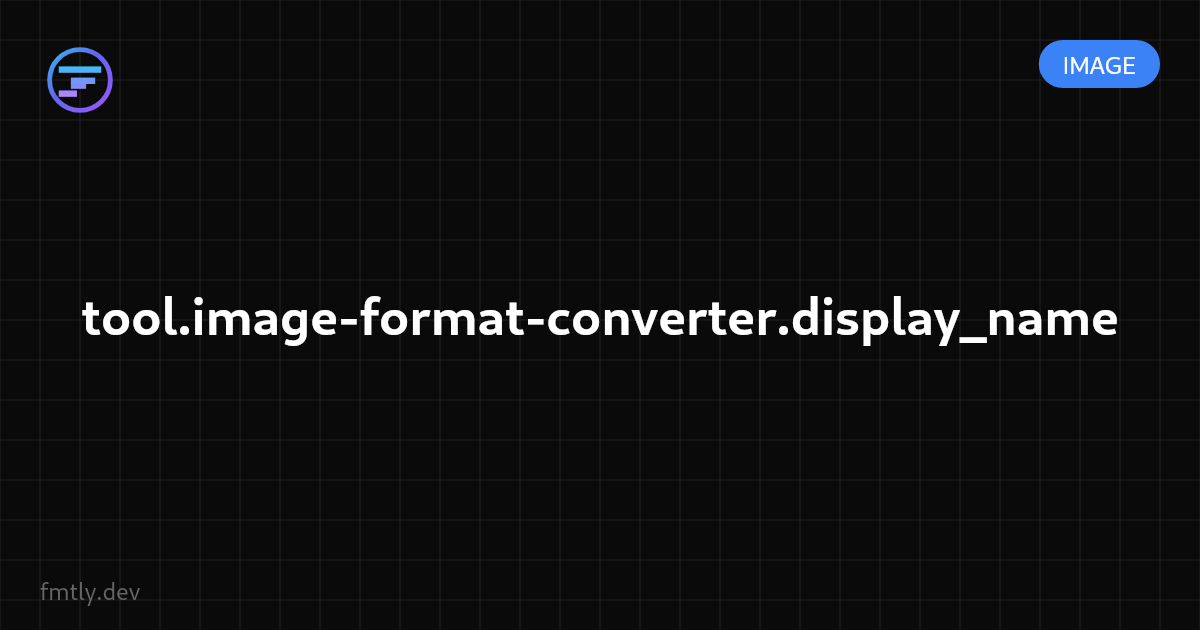
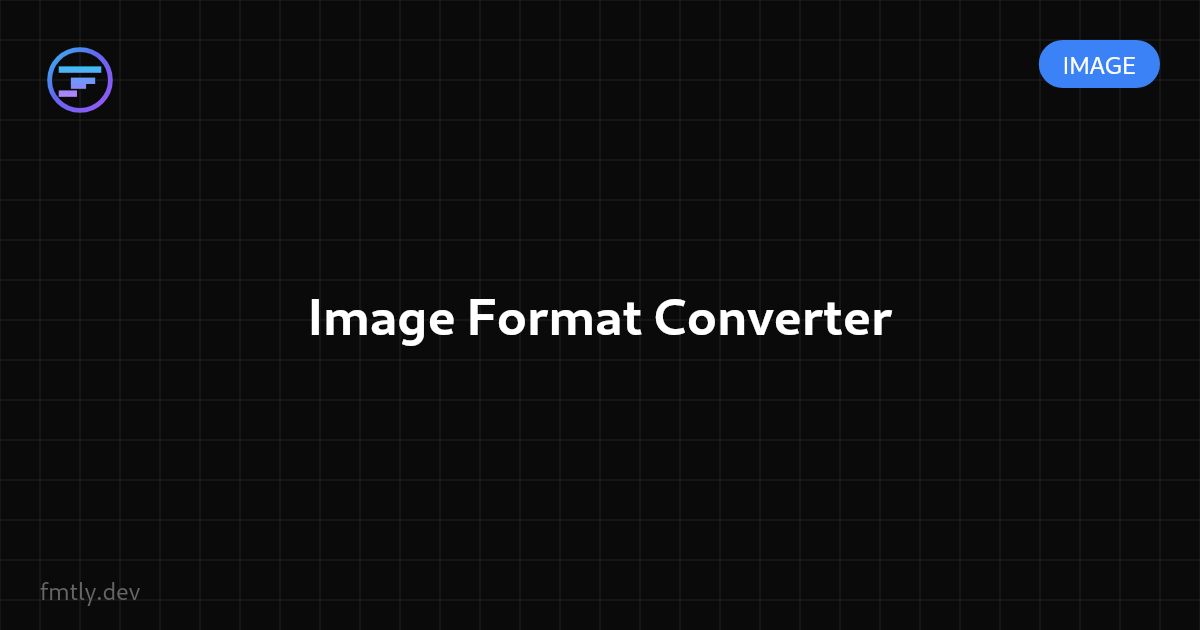
Fix image converter localization keys

Changed region(s): [[0.0617, 0.4524, 0.9558, 0.5429]]

diff --git a/src/lib/i18n/registry/it.ts b/src/lib/i18n/registry/it.ts
@@ -4339,34 +4339,36 @@ const registryIt: Record<string, string> = {
 	'tool.image-resizer.use_case.3':
 		'Convertire output ridimensionato in PNG, JPEG o WebP con controllo qualità',
 
-	'tool.image-converter.display_name': 'Convertitore di Formati Immagine',
-	'tool.image-converter.tagline': 'Converti PNG, JPEG, WebP, AVIF e GIF in modo privato',
-	'tool.image-converter.description':
+	'tool.image-format-converter.display_name': 'Convertitore di Formati Immagine',
+	'tool.image-format-converter.tagline': 'Converti PNG, JPEG, WebP, AVIF e GIF in modo privato',
+	'tool.image-format-converter.description':
 		'Converti immagini tra PNG, JPEG, WebP, AVIF e GIF direttamente nel browser. Visualizza l’anteprima, regola la qualità, appiattisci la trasparenza per JPEG e scarica senza caricare file.',
-	'tool.image-converter.primary_keyword': 'convertitore formati immagine',
-	'tool.image-converter.meta_title':
-		'Convertitore Immagini — PNG, JPG, WebP, AVIF, GIF | fmtly.dev',
-	'tool.image-converter.meta_description':
+	'tool.image-format-converter.primary_keyword': 'convertitore formati immagine',
+	'tool.image-format-converter.meta_title':
+		'Convertitore Immagine — PNG, JPG, WebP, AVIF, GIF | fmtly.dev',
+	'tool.image-format-converter.meta_description':
 		'Converti PNG, JPEG, WebP, AVIF e GIF online nel browser. Privato, veloce, con controlli qualità e Web Worker per file grandi.',
-	'tool.image-converter.operation': 'Converti immagine',
-	'tool.image-converter.faq.0.question': 'Le mie immagini vengono caricate?',
-	'tool.image-converter.faq.0.answer':
+	'tool.image-format-converter.operation': 'Converti immagine',
+	'tool.image-format-converter.faq.0.question': 'Le mie immagini vengono caricate?',
+	'tool.image-format-converter.faq.0.answer':
 		'No. I file vengono decodificati, convertiti, mostrati in anteprima e scaricati localmente nel browser. Nulla viene inviato a un server.',
-	'tool.image-converter.faq.1.question': 'Tra quali formati posso convertire?',
-	'tool.image-converter.faq.1.answer':
+	'tool.image-format-converter.faq.1.question': 'Tra quali formati posso convertire?',
+	'tool.image-format-converter.faq.1.answer':
 		'Puoi importare PNG, JPEG, WebP, AVIF e GIF ed esportare PNG, JPEG, WebP, AVIF o GIF quando il browser supporta il codificatore di destinazione.',
-	'tool.image-converter.faq.2.question': 'Che cosa succede alla trasparenza?',
-	'tool.image-converter.faq.2.answer':
+	'tool.image-format-converter.faq.2.question': 'Che cosa succede alla trasparenza?',
+	'tool.image-format-converter.faq.2.answer':
 		'PNG, WebP, AVIF e GIF possono preservare la trasparenza. JPEG non ha canale alfa, quindi le aree trasparenti vengono composte sullo sfondo scelto.',
-	'tool.image-converter.faq.3.question': 'Come resta reattiva l’interfaccia con file grandi?',
-	'tool.image-converter.faq.3.answer':
+	'tool.image-format-converter.faq.3.question':
+		'Come resta reattiva l’interfaccia con file grandi?',
+	'tool.image-format-converter.faq.3.answer':
 		'Gli input sopra 500KB vengono elaborati in un Web Worker, così la conversione resta fuori dal thread dell’interfaccia.',
-	'tool.image-converter.use_case.0':
+	'tool.image-format-converter.use_case.0':
 		'Convertire screenshot in WebP o AVIF prima della pubblicazione',
-	'tool.image-converter.use_case.1':
+	'tool.image-format-converter.use_case.1':
 		'Creare versioni JPEG di asset trasparenti con sfondo controllato',
-	'tool.image-converter.use_case.2': 'Esportare anteprime GIF leggere da grafiche statiche',
-	'tool.image-converter.use_case.3': 'Normalizzare immagini fornite dai clienti prima di CMS o API',
+	'tool.image-format-converter.use_case.2': 'Esportare anteprime GIF leggere da grafiche statiche',
+	'tool.image-format-converter.use_case.3':
+		'Normalizzare immagini fornite dai clienti prima di CMS o API',
 	'ui.image_converter.upload': 'Carica immagine',
 	'ui.image_converter.clear': 'Cancella',
 	'ui.image_converter.no_file': 'Nessuna immagine selezionata',

diff --git a/src/lib/i18n/registry/tr.ts b/src/lib/i18n/registry/tr.ts
@@ -4375,34 +4375,36 @@ const registryTr: Record<string, string> = {
 	'tool.image-resizer.use_case.3':
 		'Sunucuya yüklemeden gizli görselleri güvenli şekilde yeniden boyutlandırma',
 
-	'tool.image-converter.display_name': 'Görsel Format Dönüştürücü',
-	'tool.image-converter.tagline': 'PNG, JPEG, WebP, AVIF ve GIF görselleri gizli şekilde dönüştür',
-	'tool.image-converter.description':
+	'tool.image-format-converter.display_name': 'Görsel Format Dönüştürücü',
+	'tool.image-format-converter.tagline':
+		'PNG, JPEG, WebP, AVIF ve GIF görselleri gizli şekilde dönüştür',
+	'tool.image-format-converter.description':
 		'Görselleri PNG, JPEG, WebP, AVIF ve GIF arasında doğrudan tarayıcıda dönüştür. Çıktıyı önizle, kaliteyi ayarla, JPEG için şeffaflığı seçilen arka planla birleştir ve dosya yüklemeden indir.',
-	'tool.image-converter.primary_keyword': 'görsel format dönüştürücü',
-	'tool.image-converter.meta_title':
-		'Görsel Format Dönüştürücü — PNG, JPG, WebP, AVIF, GIF | fmtly.dev',
-	'tool.image-converter.meta_description':
+	'tool.image-format-converter.primary_keyword': 'görsel format dönüştürücü',
+	'tool.image-format-converter.meta_title':
+		'Görsel Dönüştürücü — PNG, JPG, WebP, AVIF, GIF | fmtly.dev',
+	'tool.image-format-converter.meta_description':
 		'PNG, JPEG, WebP, AVIF ve GIF görselleri tarayıcıda dönüştür. Gizli, hızlı, kalite kontrolleri ve büyük dosyalar için Web Worker desteğiyle.',
-	'tool.image-converter.operation': 'Görsel dönüştür',
-	'tool.image-converter.faq.0.question': 'Görsellerim yükleniyor mu?',
-	'tool.image-converter.faq.0.answer':
+	'tool.image-format-converter.operation': 'Görsel dönüştür',
+	'tool.image-format-converter.faq.0.question': 'Görsellerim yükleniyor mu?',
+	'tool.image-format-converter.faq.0.answer':
 		'Hayır. Dosyalar tarayıcında yerel olarak çözülür, dönüştürülür, önizlenir ve indirilir. Hiçbir şey sunucuya gönderilmez.',
-	'tool.image-converter.faq.1.question': 'Hangi formatlar arasında dönüştürebilirim?',
-	'tool.image-converter.faq.1.answer':
+	'tool.image-format-converter.faq.1.question': 'Hangi formatlar arasında dönüştürebilirim?',
+	'tool.image-format-converter.faq.1.answer':
 		'PNG, JPEG, WebP, AVIF ve GIF içe aktarabilir; tarayıcın hedef kodlayıcıyı destekliyorsa PNG, JPEG, WebP, AVIF veya GIF olarak dışa aktarabilirsin.',
-	'tool.image-converter.faq.2.question': 'Şeffaflığa ne olur?',
-	'tool.image-converter.faq.2.answer':
+	'tool.image-format-converter.faq.2.question': 'Şeffaflığa ne olur?',
+	'tool.image-format-converter.faq.2.answer':
 		'PNG, WebP, AVIF ve GIF şeffaflığı koruyabilir. JPEG alfa kanalı desteklemez; şeffaf alanlar seçilen arka plan üzerinde birleştirilir.',
-	'tool.image-converter.faq.3.question': 'Büyük dosyalarda arayüz nasıl akıcı kalıyor?',
-	'tool.image-converter.faq.3.answer':
+	'tool.image-format-converter.faq.3.question': 'Büyük dosyalarda arayüz nasıl akıcı kalıyor?',
+	'tool.image-format-converter.faq.3.answer':
 		'500KB üzerindeki girdiler Web Worker içinde işlenir; dönüşüm işi arayüz iş parçacığını engellemez.',
-	'tool.image-converter.use_case.0':
+	'tool.image-format-converter.use_case.0':
 		'Yayınlamadan önce ekran görüntülerini WebP veya AVIF formatına dönüştürme',
-	'tool.image-converter.use_case.1':
+	'tool.image-format-converter.use_case.1':
 		'Şeffaf görsellerden kontrollü arka plana sahip JPEG sürümleri oluşturma',
-	'tool.image-converter.use_case.2': 'Statik görsellerden hafif GIF önizlemeleri dışa aktarma',
-	'tool.image-converter.use_case.3':
+	'tool.image-format-converter.use_case.2':
+		'Statik görsellerden hafif GIF önizlemeleri dışa aktarma',
+	'tool.image-format-converter.use_case.3':
 		'CMS veya API yüklemeleri öncesi müşteri görsellerini standartlaştırma',
 	'ui.image_converter.upload': 'Görsel yükle',
 	'ui.image_converter.clear': 'Temizle',

diff --git a/src/lib/i18n/registry/de.ts b/src/lib/i18n/registry/de.ts
@@ -117,34 +117,37 @@ const registryDe: Record<string, string> = {
 		'System-Prompts als Klartext oder OpenAI-kompatible JSON-Nachrichten exportieren',
 	'tool.ai-system-prompt-builder.use_case.3':
 		'Sicherheitsgrenzen, Denkhinweise, Beispiele und Qualitätschecks zu Prompts hinzufügen',
-	'tool.image-converter.display_name': 'Bildformat-Konverter',
-	'tool.image-converter.tagline': 'PNG, JPEG, WebP, AVIF und GIF privat konvertieren',
-	'tool.image-converter.description':
+	'tool.image-format-converter.display_name': 'Bildformat-Konverter',
+	'tool.image-format-converter.tagline': 'PNG, JPEG, WebP, AVIF und GIF privat konvertieren',
+	'tool.image-format-converter.description':
 		'Konvertieren Sie Bilder zwischen PNG, JPEG, WebP, AVIF und GIF direkt im Browser. Vorschau anzeigen, Qualität anpassen, Transparenz für JPEG gezielt hinterlegen und herunterladen, ohne Dateien hochzuladen.',
-	'tool.image-converter.primary_keyword': 'bildformat konverter',
-	'tool.image-converter.meta_title': 'Bildformat-Konverter — PNG, JPG, WebP, AVIF, GIF | fmtly.dev',
-	'tool.image-converter.meta_description':
+	'tool.image-format-converter.primary_keyword': 'bildformat konverter',
+	'tool.image-format-converter.meta_title':
+		'Bild-Konverter — PNG, JPG, WebP, AVIF, GIF | fmtly.dev',
+	'tool.image-format-converter.meta_description':
 		'Konvertieren Sie PNG, JPEG, WebP, AVIF und GIF online im Browser. Privat, schnell, mit Qualitätssteuerung und Web Worker für große Dateien.',
-	'tool.image-converter.operation': 'Bild konvertieren',
-	'tool.image-converter.faq.0.question': 'Werden meine Bilder hochgeladen?',
-	'tool.image-converter.faq.0.answer':
+	'tool.image-format-converter.operation': 'Bild konvertieren',
+	'tool.image-format-converter.faq.0.question': 'Werden meine Bilder hochgeladen?',
+	'tool.image-format-converter.faq.0.answer':
 		'Nein. Dateien werden lokal im Browser decodiert, konvertiert, in der Vorschau angezeigt und heruntergeladen. Es wird nichts an einen Server gesendet.',
-	'tool.image-converter.faq.1.question': 'Zwischen welchen Formaten kann ich konvertieren?',
-	'tool.image-converter.faq.1.answer':
+	'tool.image-format-converter.faq.1.question': 'Zwischen welchen Formaten kann ich konvertieren?',
+	'tool.image-format-converter.faq.1.answer':
 		'Sie können PNG, JPEG, WebP, AVIF und GIF importieren und als PNG, JPEG, WebP, AVIF oder GIF exportieren, sofern Ihr Browser den Ziel-Encoder unterstützt.',
-	'tool.image-converter.faq.2.question': 'Was passiert mit Transparenz?',
-	'tool.image-converter.faq.2.answer':
+	'tool.image-format-converter.faq.2.question': 'Was passiert mit Transparenz?',
+	'tool.image-format-converter.faq.2.answer':
 		'PNG, WebP, AVIF und GIF können Transparenz erhalten. JPEG hat keinen Alphakanal, daher werden transparente Bereiche über dem gewählten Hintergrund zusammengesetzt.',
-	'tool.image-converter.faq.3.question':
+	'tool.image-format-converter.faq.3.question':
 		'Wie bleibt die Oberfläche bei großen Dateien reaktionsfähig?',
-	'tool.image-converter.faq.3.answer':
+	'tool.image-format-converter.faq.3.answer':
 		'Eingaben über 500KB werden in einem Web Worker verarbeitet, sodass die Konvertierung nicht den UI-Thread blockiert.',
-	'tool.image-converter.use_case.0':
+	'tool.image-format-converter.use_case.0':
 		'Screenshots vor der Veröffentlichung in WebP oder AVIF umwandeln',
-	'tool.image-converter.use_case.1':
+	'tool.image-format-converter.use_case.1':
 		'JPEG-Versionen transparenter Assets mit kontrolliertem Hintergrund erstellen',
-	'tool.image-converter.use_case.2': 'Leichte GIF-Vorschauen aus statischen Grafiken exportieren',
-	'tool.image-converter.use_case.3': 'Bilder von Kunden vor CMS- oder API-Uploads vereinheitlichen',
+	'tool.image-format-converter.use_case.2':
+		'Leichte GIF-Vorschauen aus statischen Grafiken exportieren',
+	'tool.image-format-converter.use_case.3':
+		'Bilder von Kunden vor CMS- oder API-Uploads vereinheitlichen',
 	'ui.image_converter.upload': 'Bild hochladen',
 	'ui.image_converter.clear': 'Leeren',
 	'ui.image_converter.no_file': 'Kein Bild ausgewählt',

diff --git a/src/lib/i18n/registry/en.ts b/src/lib/i18n/registry/en.ts
@@ -152,33 +152,34 @@ const registryEn: Record<string, string> = {
 		'Reduce upload sizes before sending files to APIs or CMS systems',
 	'tool.image-resizer.use_case.3':
 		'Convert between PNG, JPEG, and WebP while preserving output control',
-	'tool.image-converter.display_name': 'Image Format Converter',
-	'tool.image-converter.tagline': 'Convert PNG, JPEG, WebP, AVIF, and GIF images privately',
-	'tool.image-converter.description':
+	'tool.image-format-converter.display_name': 'Image Format Converter',
+	'tool.image-format-converter.tagline': 'Convert PNG, JPEG, WebP, AVIF, and GIF images privately',
+	'tool.image-format-converter.description':
 		'Convert images between PNG, JPEG, WebP, AVIF, and GIF directly in your browser. Preview output, tune quality, flatten transparency for JPEG, and download without uploading files.',
-	'tool.image-converter.primary_keyword': 'image format converter',
-	'tool.image-converter.meta_title':
-		'Image Format Converter — PNG, JPG, WebP, AVIF, GIF | fmtly.dev',
-	'tool.image-converter.meta_description':
+	'tool.image-format-converter.primary_keyword': 'image format converter',
+	'tool.image-format-converter.meta_title':
+		'Image Converter — PNG, JPG, WebP, AVIF, GIF | fmtly.dev',
+	'tool.image-format-converter.meta_description':
 		'Convert PNG, JPEG, WebP, AVIF, and GIF images online in your browser. Private, fast, with quality controls and Web Worker support for large files.',
-	'tool.image-converter.operation': 'Convert image',
-	'tool.image-converter.faq.0.question': 'Do my images get uploaded?',
-	'tool.image-converter.faq.0.answer':
+	'tool.image-format-converter.operation': 'Convert image',
+	'tool.image-format-converter.faq.0.question': 'Do my images get uploaded?',
+	'tool.image-format-converter.faq.0.answer':
 		'No. Files are decoded, converted, previewed, and downloaded locally in your browser. Nothing is sent to a server.',
-	'tool.image-converter.faq.1.question': 'Which formats can I convert between?',
-	'tool.image-converter.faq.1.answer':
+	'tool.image-format-converter.faq.1.question': 'Which formats can I convert between?',
+	'tool.image-format-converter.faq.1.answer':
 		'You can import PNG, JPEG, WebP, AVIF, and GIF files and export PNG, JPEG, WebP, AVIF, or GIF when your browser supports the target encoder.',
-	'tool.image-converter.faq.2.question': 'What happens to transparency?',
-	'tool.image-converter.faq.2.answer':
+	'tool.image-format-converter.faq.2.question': 'What happens to transparency?',
+	'tool.image-format-converter.faq.2.answer':
 		'PNG, WebP, AVIF, and GIF can preserve transparency. JPEG has no alpha channel, so transparent areas are composited over the selected background.',
-	'tool.image-converter.faq.3.question': 'How does it stay responsive with large files?',
-	'tool.image-converter.faq.3.answer':
+	'tool.image-format-converter.faq.3.question': 'How does it stay responsive with large files?',
+	'tool.image-format-converter.faq.3.answer':
 		'Inputs above 500KB are processed in a Web Worker so conversion work stays off the UI thread.',
-	'tool.image-converter.use_case.0': 'Convert screenshots to WebP or AVIF before publishing',
-	'tool.image-converter.use_case.1':
+	'tool.image-format-converter.use_case.0': 'Convert screenshots to WebP or AVIF before publishing',
+	'tool.image-format-converter.use_case.1':
 		'Create JPEG versions of transparent assets with a controlled background',
-	'tool.image-converter.use_case.2': 'Export lightweight GIF previews from static artwork',
-	'tool.image-converter.use_case.3': 'Normalize client-supplied images before CMS or API uploads',
+	'tool.image-format-converter.use_case.2': 'Export lightweight GIF previews from static artwork',
+	'tool.image-format-converter.use_case.3':
+		'Normalize client-supplied images before CMS or API uploads',
 	'ui.image_converter.upload': 'Upload image',
 	'ui.image_converter.clear': 'Clear',
 	'ui.image_converter.no_file': 'No image selected',

diff --git a/src/lib/i18n/registry/fr.ts b/src/lib/i18n/registry/fr.ts
@@ -4431,36 +4431,37 @@ const registryFr: Record<string, string> = {
 	'tool.image-resizer.use_case.3':
 		'Redimensionner des assets marketing sans outils desktop ni upload cloud',
 
-	'tool.image-converter.display_name': 'Convertisseur de Format d’Image',
-	'tool.image-converter.tagline':
+	'tool.image-format-converter.display_name': 'Convertisseur de Format d’Image',
+	'tool.image-format-converter.tagline':
 		'Convertissez PNG, JPEG, WebP, AVIF et GIF en toute confidentialité',
-	'tool.image-converter.description':
+	'tool.image-format-converter.description':
 		'Convertissez des images entre PNG, JPEG, WebP, AVIF et GIF directement dans le navigateur. Prévisualisez le résultat, ajustez la qualité, aplatissez la transparence pour JPEG et téléchargez sans envoyer de fichier.',
-	'tool.image-converter.primary_keyword': 'convertisseur de format image',
-	'tool.image-converter.meta_title':
-		'Convertisseur d’Image — PNG, JPG, WebP, AVIF, GIF | fmtly.dev',
-	'tool.image-converter.meta_description':
+	'tool.image-format-converter.primary_keyword': 'convertisseur de format image',
+	'tool.image-format-converter.meta_title':
+		'Convertisseur Image — PNG, JPG, WebP, AVIF, GIF | fmtly.dev',
+	'tool.image-format-converter.meta_description':
 		'Convertissez PNG, JPEG, WebP, AVIF et GIF en ligne dans votre navigateur. Privé, rapide, avec réglage de qualité et Web Worker pour les gros fichiers.',
-	'tool.image-converter.operation': 'Convertir l’image',
-	'tool.image-converter.faq.0.question': 'Mes images sont-elles téléversées ?',
-	'tool.image-converter.faq.0.answer':
+	'tool.image-format-converter.operation': 'Convertir l’image',
+	'tool.image-format-converter.faq.0.question': 'Mes images sont-elles téléversées ?',
+	'tool.image-format-converter.faq.0.answer':
 		'Non. Les fichiers sont décodés, convertis, prévisualisés et téléchargés localement dans votre navigateur. Rien n’est envoyé à un serveur.',
-	'tool.image-converter.faq.1.question': 'Quels formats puis-je convertir ?',
-	'tool.image-converter.faq.1.answer':
+	'tool.image-format-converter.faq.1.question': 'Quels formats puis-je convertir ?',
+	'tool.image-format-converter.faq.1.answer':
 		'Vous pouvez importer PNG, JPEG, WebP, AVIF et GIF, puis exporter en PNG, JPEG, WebP, AVIF ou GIF si votre navigateur prend en charge l’encodeur cible.',
-	'tool.image-converter.faq.2.question': 'Que devient la transparence ?',
-	'tool.image-converter.faq.2.answer':
+	'tool.image-format-converter.faq.2.question': 'Que devient la transparence ?',
+	'tool.image-format-converter.faq.2.answer':
 		'PNG, WebP, AVIF et GIF peuvent préserver la transparence. JPEG n’a pas de canal alpha ; les zones transparentes sont donc composées sur le fond choisi.',
-	'tool.image-converter.faq.3.question':
+	'tool.image-format-converter.faq.3.question':
 		'Comment l’interface reste-t-elle fluide avec de gros fichiers ?',
-	'tool.image-converter.faq.3.answer':
+	'tool.image-format-converter.faq.3.answer':
 		'Les entrées de plus de 500KB sont traitées dans un Web Worker afin que la conversion ne bloque pas le fil d’interface.',
-	'tool.image-converter.use_case.0': 'Convertir des captures en WebP ou AVIF avant publication',
-	'tool.image-converter.use_case.1':
+	'tool.image-format-converter.use_case.0':
+		'Convertir des captures en WebP ou AVIF avant publication',
+	'tool.image-format-converter.use_case.1':
 		'Créer des versions JPEG d’assets transparents avec un fond contrôlé',
-	'tool.image-converter.use_case.2':
+	'tool.image-format-converter.use_case.2':
 		'Exporter des aperçus GIF légers à partir d’illustrations statiques',
-	'tool.image-converter.use_case.3': 'Normaliser les images client avant import CMS ou API',
+	'tool.image-format-converter.use_case.3': 'Normaliser les images client avant import CMS ou API',
 	'ui.image_converter.upload': 'Importer une image',
 	'ui.image_converter.clear': 'Effacer',
 	'ui.image_converter.no_file': 'Aucune image sélectionnée',

diff --git a/src/lib/i18n/registry/es.ts b/src/lib/i18n/registry/es.ts
@@ -4406,33 +4406,35 @@ const registryEs: Record<string, string> = {
 		'Preparar miniaturas y assets optimizados para velocidad de carga',
 	'tool.image-resizer.use_case.3': 'Redimensionar imágenes de forma privada sin subir archivos',
 
-	'tool.image-converter.display_name': 'Conversor de Formatos de Imagen',
-	'tool.image-converter.tagline': 'Convierte PNG, JPEG, WebP, AVIF y GIF de forma privada',
-	'tool.image-converter.description':
+	'tool.image-format-converter.display_name': 'Conversor de Formatos de Imagen',
+	'tool.image-format-converter.tagline': 'Convierte PNG, JPEG, WebP, AVIF y GIF de forma privada',
+	'tool.image-format-converter.description':
 		'Convierte imágenes entre PNG, JPEG, WebP, AVIF y GIF directamente en el navegador. Previsualiza el resultado, ajusta la calidad, aplana transparencias para JPEG y descarga sin subir archivos.',
-	'tool.image-converter.primary_keyword': 'conversor de formatos de imagen',
-	'tool.image-converter.meta_title': 'Conversor de Imagen — PNG, JPG, WebP, AVIF, GIF | fmtly.dev',
-	'tool.image-converter.meta_description':
+	'tool.image-format-converter.primary_keyword': 'conversor de formatos de imagen',
+	'tool.image-format-converter.meta_title':
+		'Conversor Imagen — PNG, JPG, WebP, AVIF, GIF | fmtly.dev',
+	'tool.image-format-converter.meta_description':
 		'Convierte PNG, JPEG, WebP, AVIF y GIF online en tu navegador. Privado, rápido, con control de calidad y Web Worker para archivos grandes.',
-	'tool.image-converter.operation': 'Convertir imagen',
-	'tool.image-converter.faq.0.question': '¿Se suben mis imágenes?',
-	'tool.image-converter.faq.0.answer':
+	'tool.image-format-converter.operation': 'Convertir imagen',
+	'tool.image-format-converter.faq.0.question': '¿Se suben mis imágenes?',
+	'tool.image-format-converter.faq.0.answer':
 		'No. Los archivos se decodifican, convierten, previsualizan y descargan localmente en tu navegador. Nada se envía a un servidor.',
-	'tool.image-converter.faq.1.question': '¿Entre qué formatos puedo convertir?',
-	'tool.image-converter.faq.1.answer':
+	'tool.image-format-converter.faq.1.question': '¿Entre qué formatos puedo convertir?',
+	'tool.image-format-converter.faq.1.answer':
 		'Puedes importar PNG, JPEG, WebP, AVIF y GIF, y exportar PNG, JPEG, WebP, AVIF o GIF cuando tu navegador admita el codificador de destino.',
-	'tool.image-converter.faq.2.question': '¿Qué ocurre con la transparencia?',
-	'tool.image-converter.faq.2.answer':
+	'tool.image-format-converter.faq.2.question': '¿Qué ocurre con la transparencia?',
+	'tool.image-format-converter.faq.2.answer':
 		'PNG, WebP, AVIF y GIF pueden conservar la transparencia. JPEG no tiene canal alfa, así que las zonas transparentes se componen sobre el fondo elegido.',
-	'tool.image-converter.faq.3.question':
+	'tool.image-format-converter.faq.3.question':
 		'¿Cómo se mantiene fluida la interfaz con archivos grandes?',
-	'tool.image-converter.faq.3.answer':
+	'tool.image-format-converter.faq.3.answer':
 		'Las entradas de más de 500KB se procesan en un Web Worker para mantener la conversión fuera del hilo de la interfaz.',
-	'tool.image-converter.use_case.0': 'Convertir capturas a WebP o AVIF antes de publicarlas',
-	'tool.image-converter.use_case.1':
+	'tool.image-format-converter.use_case.0': 'Convertir capturas a WebP o AVIF antes de publicarlas',
+	'tool.image-format-converter.use_case.1':
 		'Crear versiones JPEG de recursos transparentes con fondo controlado',
-	'tool.image-converter.use_case.2': 'Exportar GIF ligeros de vista previa desde arte estático',
-	'tool.image-converter.use_case.3':
+	'tool.image-format-converter.use_case.2':
+		'Exportar GIF ligeros de vista previa desde arte estático',
+	'tool.image-format-converter.use_case.3':
 		'Normalizar imágenes de clientes antes de subirlas a un CMS o API',
 	'ui.image_converter.upload': 'Subir imagen',
 	'ui.image_converter.clear': 'Limpiar',